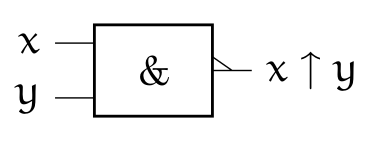
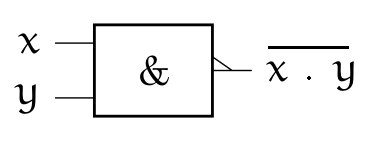
logique

Changed region(s): [[0.7059, 0.2679, 0.9412, 0.5357]]

diff --git a/docs/T2_Representation_des_donnees/2.5_Booleens/cours.md b/docs/T2_Representation_des_donnees/2.5_Booleens/cours.md
@@ -55,14 +55,13 @@ les cas possibles et les regrouper dans un tableau appelé **table de vérité**
     |V|F|F|
     |V|V|V|
 
+Notations usuelles: $Q=A \wedge B$ ; $Q=A . B$ ; $Q=A&B$ ; $Q=A and B$
 
 On représente souvent les opérateurs booléens à l'aide de portes logiques:
 
+Symbole européen (norme ISO): 
 ![](data/porte_et.png){: .center}
-
-
-Notations usuelles : $Q=A \wedge B$ ou $Q=A . B$ ou $Q=A & B$ ou $Q=A and B$
-
+Symbole américain (norme ANSI):
 ![](data/and.png){: .center}
 
 
@@ -113,7 +112,7 @@ On appelle **évaluation paresseuse** le fait que l'interpréteur Python s'arrê
 - anglais (et Python) : `or`
 - notation logique : $\vee$
 - notation mathématique :  $+$
-- autre symbôle : | appelé _pipe_ en anglais
+- autre symbole : | appelé _pipe_ en anglais
 
 C'est l'opération définie par:
 
@@ -131,12 +130,11 @@ On en déduit la table suivante:
     |V|F|V|
     |V|V|V|
 
+Notations usuelles: $Q=A \vee B$ ; $Q=A + B$ ; $Q=A | B$ ; $Q=A or B$  
 
-
+Symbole européen (norme ISO):  
 ![](data/porte_ou.png){: .center}
-
-Notations usuelles : $Q=A \vee B$ ou $Q=A + B$ ou $Q=A | B$ ou $Q=A or B$  
-
+Symbole américain (norme ANSI):
 ![](data/or.png){: .center}
 
 
@@ -168,7 +166,7 @@ Pouvez-vous prévoir le résultat du code ci-dessous ?
 - anglais (et Python) : `not`
 - notation logique :  $\neg$
 - notation mathématique :  $\overline{x}$
-- symbole usuel : ~  
+- autre symbole  : ~  
 
 C'est l'opération définie par:
 
@@ -183,10 +181,11 @@ On en déduit la table suivante:
     |F|V|
     |V|F|
 
+Notations usuelles  : $Q=\neg A$ ; $Q=\overline{A}$ ; $Q = ~ A $ ; $Q=not A$
+
+Symbole européen (norme ISO): 
 ![](data/porte_non.png){: .center}
-
-Notations usuelles  : $Q=\neg A$ ou $Q=\overline{A}$ ou $Q = ~ A $ ou $Q=not A$
-
+Symbole américain (norme ANSI):
 ![](data/no.png){: .center}
 
 #### Exemples en Python
@@ -201,12 +200,7 @@ False
 
 ### 2.4 Exercice 1
 
-Comprendre ce mème :
-![image](data/drake.webp){: .center width=50%}
 
-
-
-### 2.5 Exercice 2
 1. Ouvrir le [simulateur de circuits](http://dept-info.labri.fr/ENSEIGNEMENT/archi/circuits/blank-teacher.html){. target="_blank"} et créer pour chaque opération AND, OR, NOT un circuit électrique illustrant ses propriétés.
 
 Exemple (inintéressant) de circuit :
